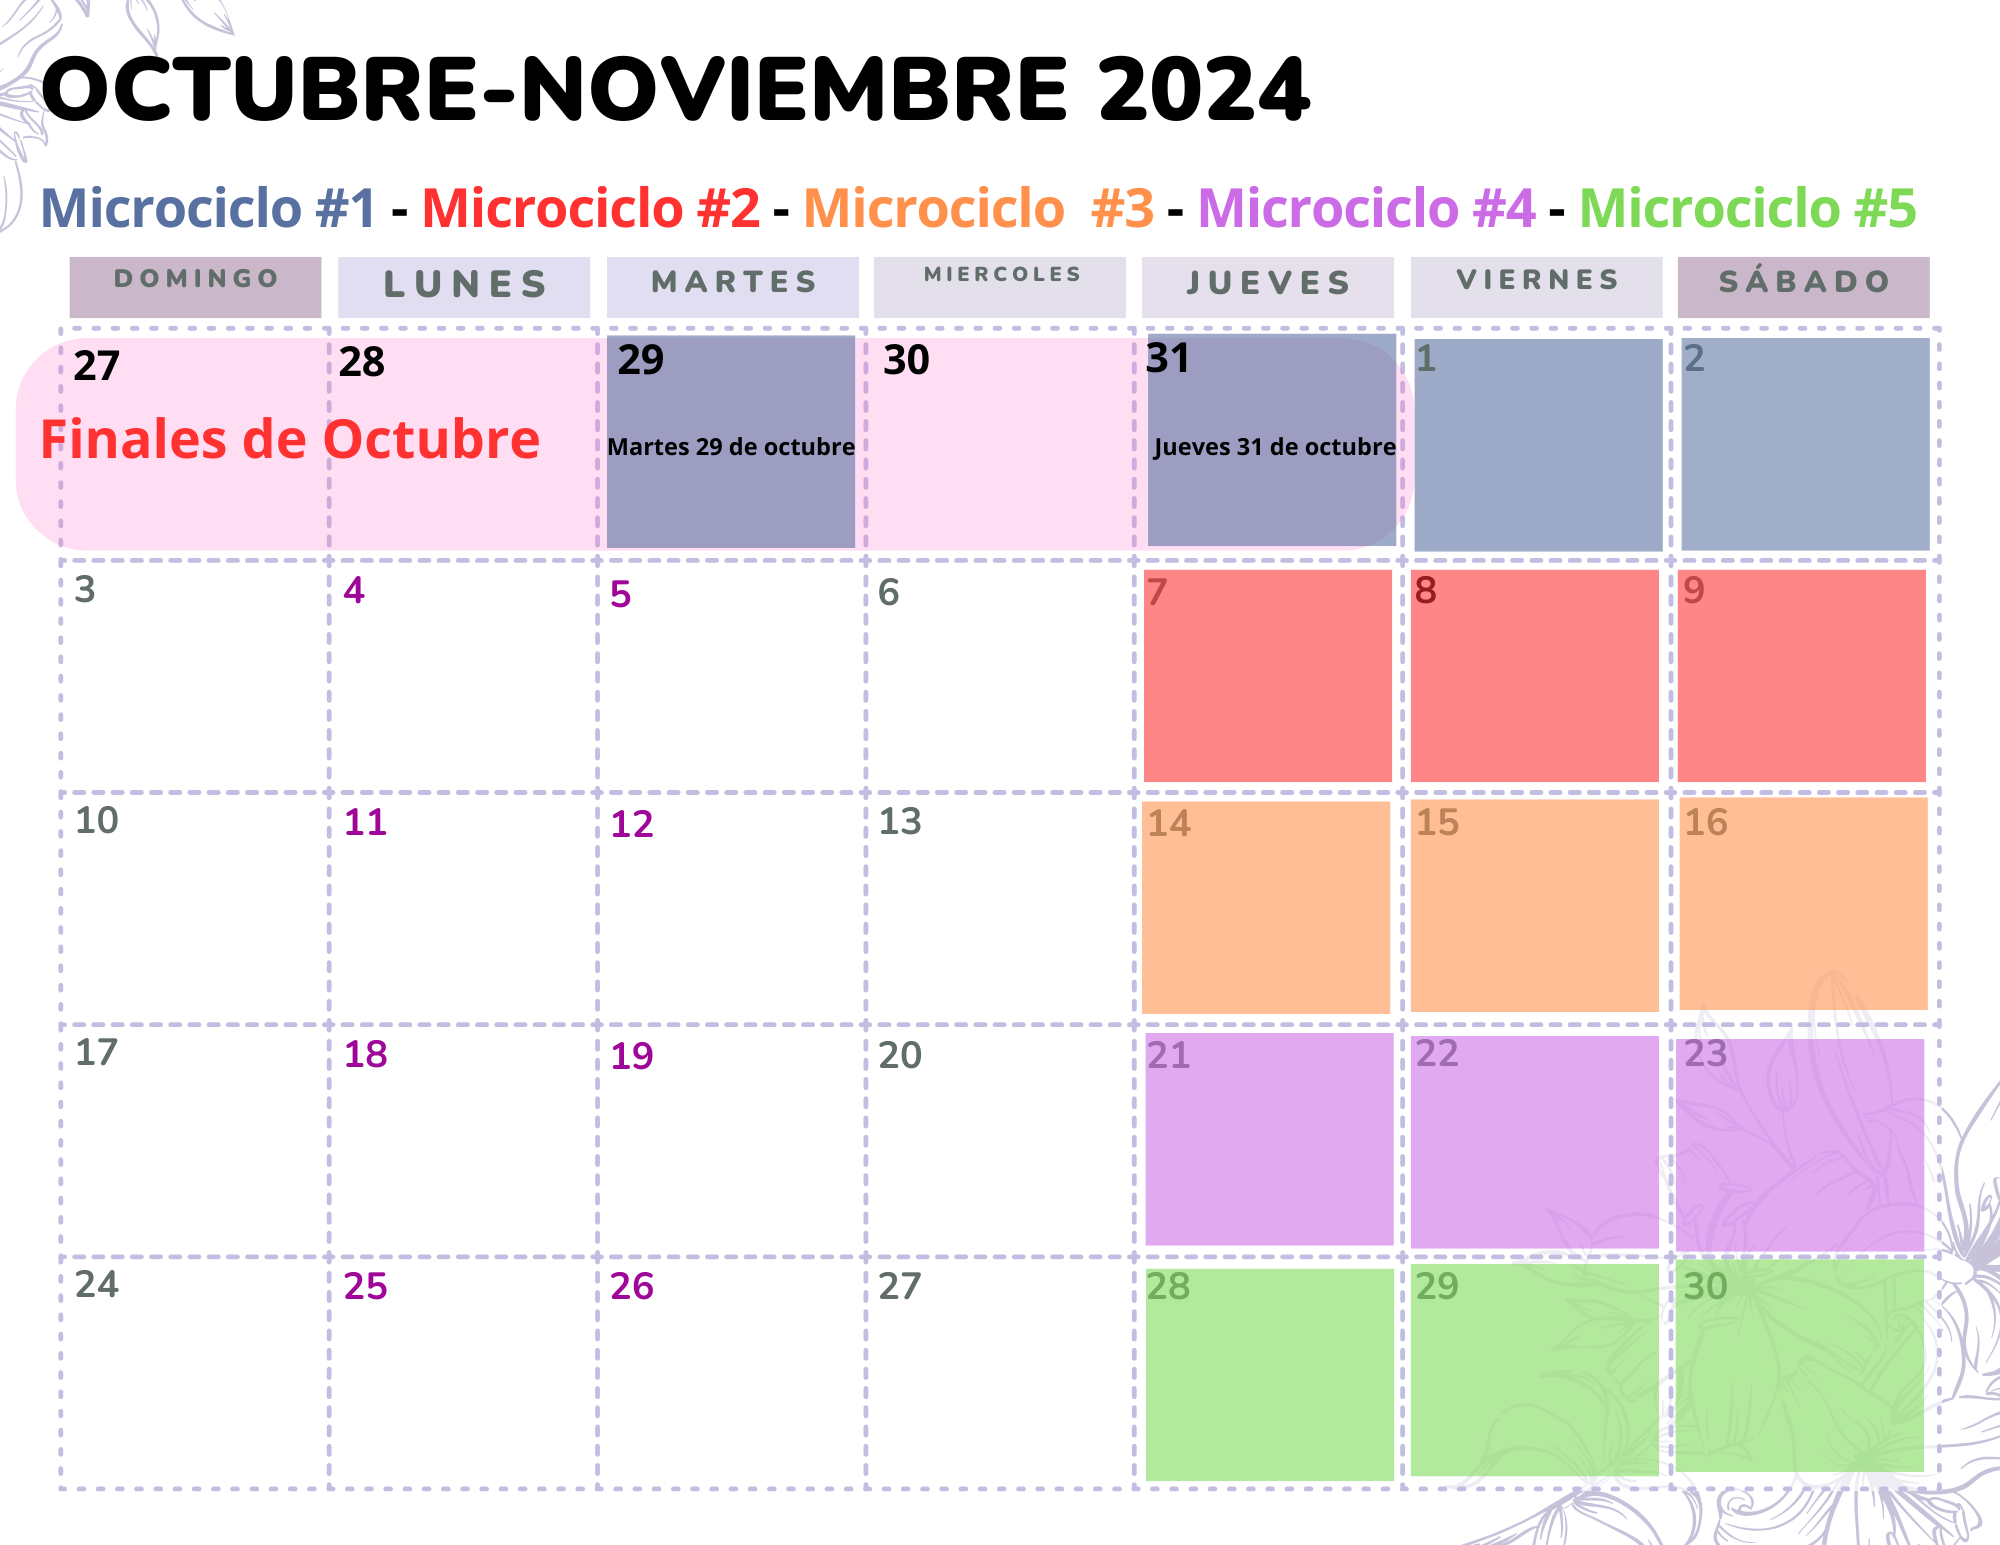
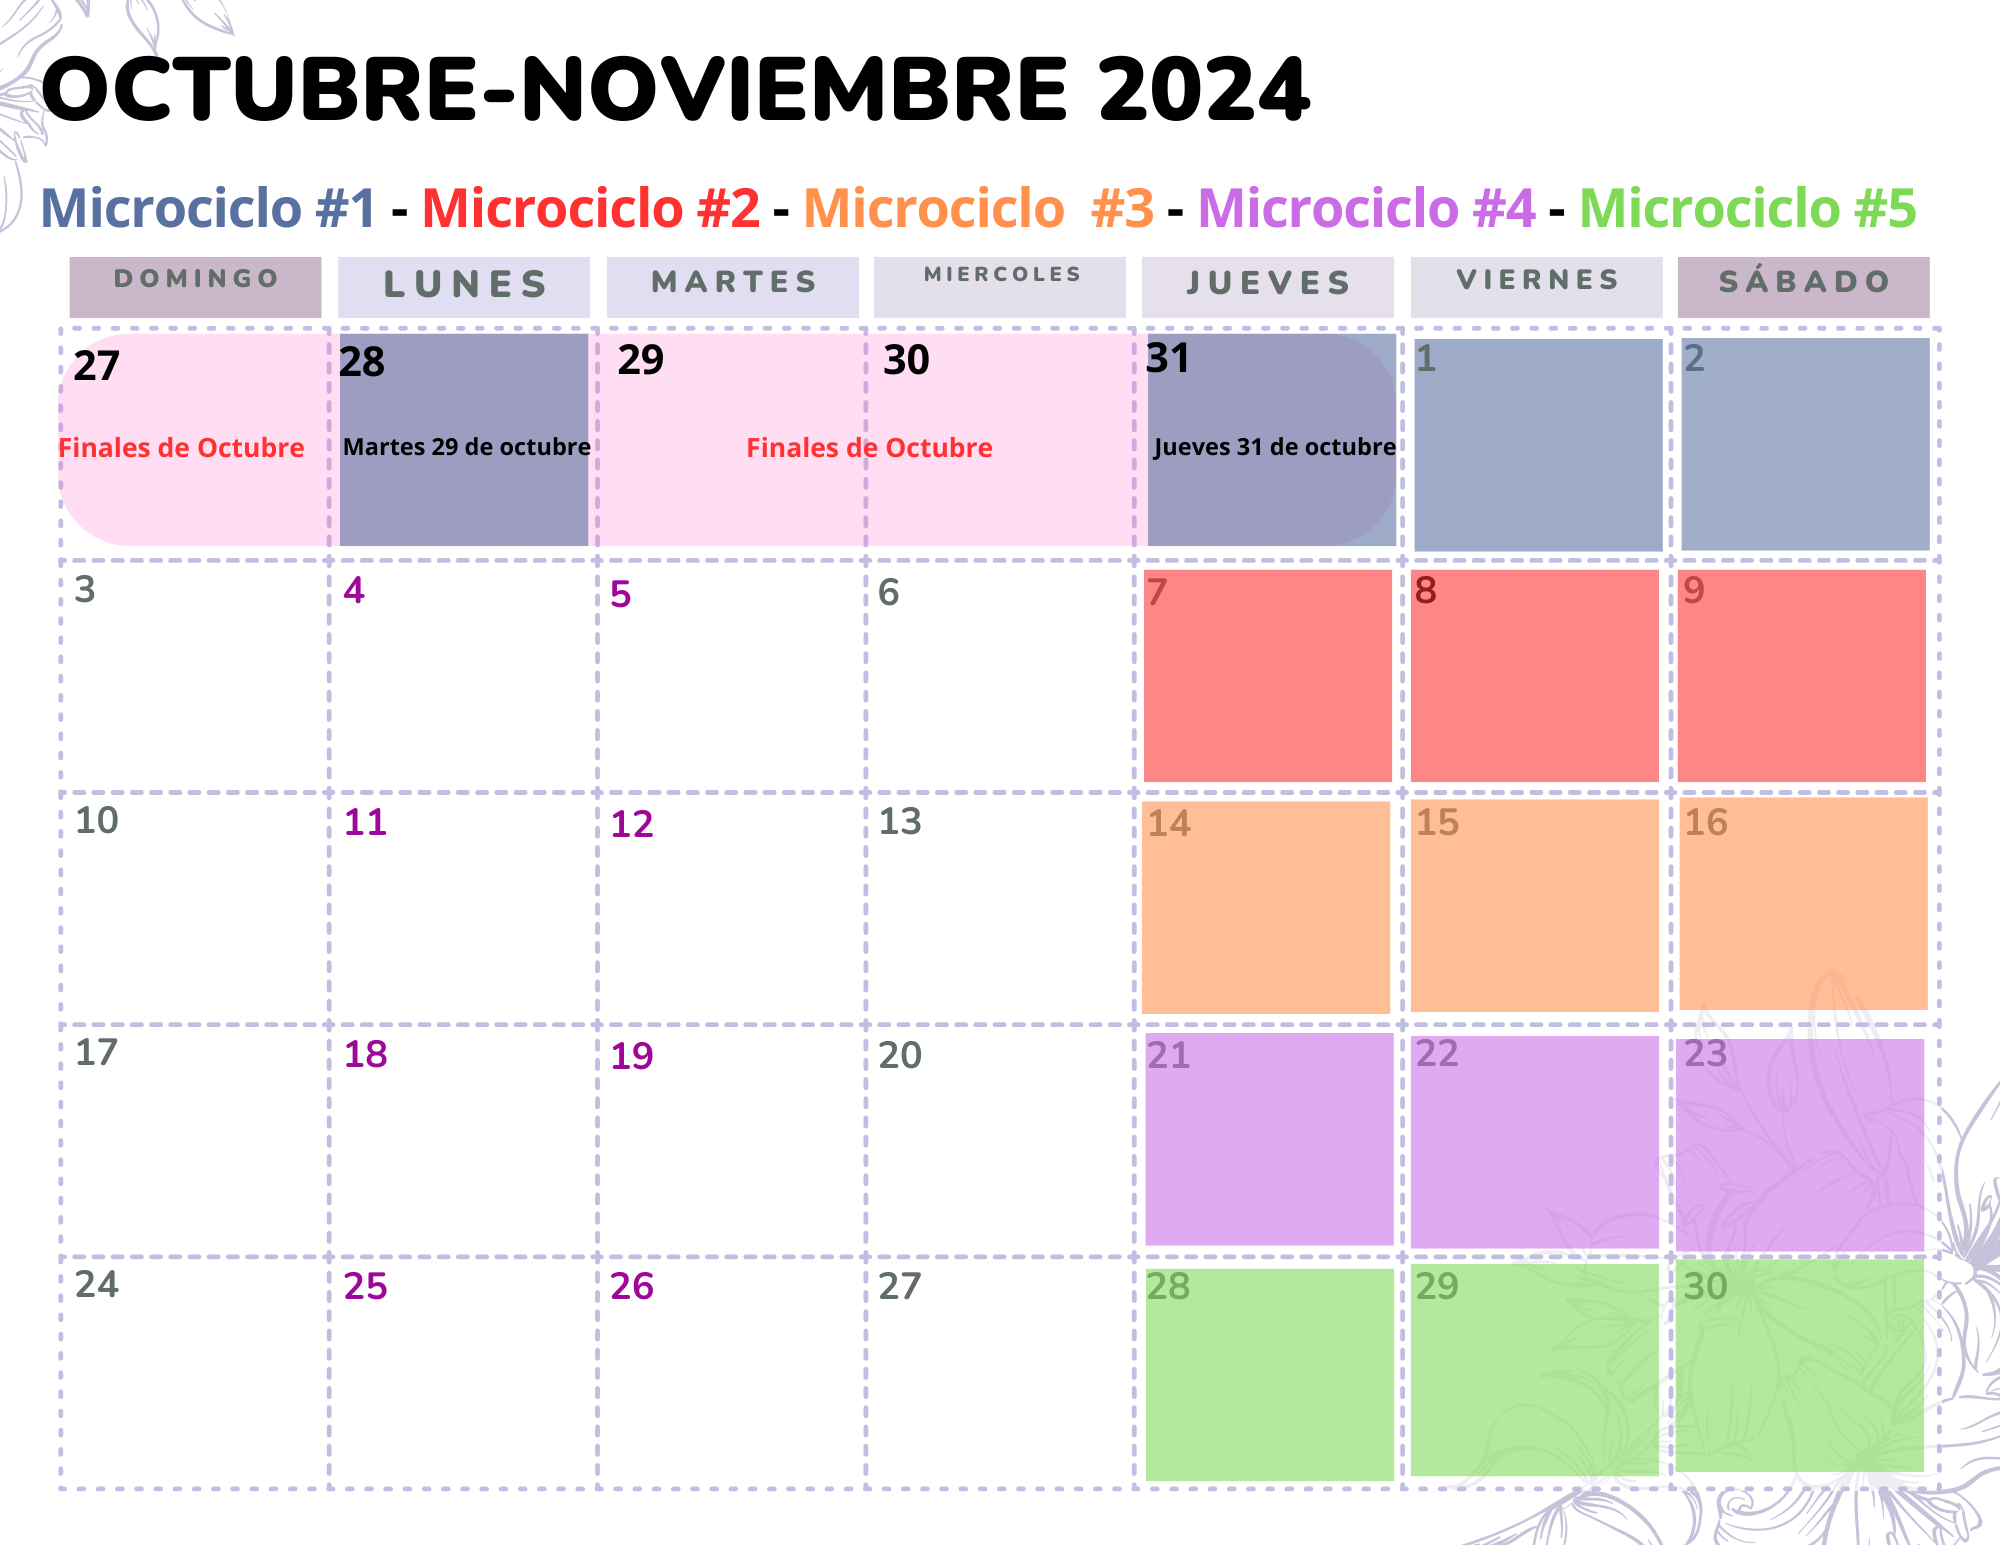
7th i think, we are trying to correct dates and calendar and add delete records

Changed region(s): [[0.0, 0.2175, 0.496, 0.3728], [0.682, 0.2485, 0.713, 0.3417], [0.031, 0.3417, 0.062, 0.3728]]

diff --git a/calenovemberchaverrapf.py b/calenovemberchaverrapf.py
@@ -25,6 +25,20 @@ def save_to_sqlite(nombre_padre, nombre_jugador, notas, microciclos):
         except Error as e:
             st.error(f"Error saving data: {e}")
 
+# Function to delete a record based on the parent's name
+def delete_record_by_name(nombre_padre):
+    conn = create_connection()
+    if conn:
+        try:
+            cursor = conn.cursor()
+            query = "DELETE FROM parents_data WHERE nombre_padre = ?"
+            cursor.execute(query, (nombre_padre,))
+            conn.commit()
+            conn.close()
+            st.success(f"Record for {nombre_padre} deleted successfully!")
+        except Error as e:
+            st.error(f"Error deleting data: {e}")
+
 # Function to display data from SQLite in admin view
 def visualize_microciclos(data):
     for parent in data:
@@ -69,6 +83,15 @@ def admin_access():
         if password == "chave4043":
             st.success("Access granted!")
             display_all_data()
+
+            # Add option to delete a record
+            st.subheader("Delete Record")
+            delete_padre = st.text_input("Enter the parent's name to delete:")
+            if st.button("Delete Record"):
+                if delete_padre:
+                    delete_record_by_name(delete_padre)
+                else:
+                    st.error("Please enter a parent's name to delete.")
         else:
             st.error("Incorrect password. Access denied.")
 
@@ -96,8 +119,8 @@ def informacion_padre_y_calendario():
     # Microciclo #1
     st.markdown("<h4 style='color: lightblue;'>Microciclo #1</h4>", unsafe_allow_html=True)
     microciclos['microciclo_1'] = {
-        "29 de octubre (martes)": st.checkbox("29 de octubre (martes)", key="microciclo_1_1"),
-        "30 de octubre (miércoles)": st.checkbox("30 de octubre (miércoles)", key="microciclo_1_2"),
+        "28 de octubre (lunes)": st.checkbox("28 de octubre (lunes)", key="microciclo_1_1"),
+        "31 de octubre (jueves)": st.checkbox("31 de octubre (jueves)", key="microciclo_1_2"),
         "1 de noviembre (viernes)": st.checkbox("1 de noviembre (viernes)", key="microciclo_1_3"),
         "2 de noviembre (sábado)": st.checkbox("2 de noviembre (sábado)", key="microciclo_1_4"),
     }
@@ -105,41 +128,33 @@ def informacion_padre_y_calendario():
     # Microciclo #2
     st.markdown("<h4 style='color: lightcoral;'>Microciclo #2</h4>", unsafe_allow_html=True)
     microciclos['microciclo_2'] = {
-        "4 de noviembre (lunes)": st.checkbox("4 de noviembre (lunes)", key="microciclo_2_1"),
-        "5 de noviembre (martes)": st.checkbox("5 de noviembre (martes)", key="microciclo_2_2"),
-        "7 de noviembre (jueves)": st.checkbox("7 de noviembre (jueves)", key="microciclo_2_3"),
-        "8 de noviembre (viernes)": st.checkbox("8 de noviembre (viernes)", key="microciclo_2_4"),
-        "9 de noviembre (sábado)": st.checkbox("9 de noviembre (sábado)", key="microciclo_2_5"),
+        "7 de noviembre (jueves)": st.checkbox("7 de noviembre (jueves)", key="microciclo_2_1"),
+        "8 de noviembre (viernes)": st.checkbox("8 de noviembre (viernes)", key="microciclo_2_2"),
+        "9 de noviembre (sábado)": st.checkbox("9 de noviembre (sábado)", key="microciclo_2_3"),
     }
 
     # Microciclo #3
     st.markdown("<h4 style='color: orange;'>Microciclo #3</h4>", unsafe_allow_html=True)
     microciclos['microciclo_3'] = {
-        "11 de noviembre (lunes)": st.checkbox("11 de noviembre (lunes)", key="microciclo_3_1"),
-        "12 de noviembre (martes)": st.checkbox("12 de noviembre (martes)", key="microciclo_3_2"),
-        "14 de noviembre (jueves)": st.checkbox("14 de noviembre (jueves)", key="microciclo_3_3"),
-        "15 de noviembre (viernes)": st.checkbox("15 de noviembre (viernes)", key="microciclo_3_4"),
-        "16 de noviembre (sábado)": st.checkbox("16 de noviembre (sábado)", key="microciclo_3_5"),
+        "14 de noviembre (jueves)": st.checkbox("14 de noviembre (jueves)", key="microciclo_3_1"),
+        "15 de noviembre (viernes)": st.checkbox("15 de noviembre (viernes)", key="microciclo_3_2"),
+        "16 de noviembre (sábado)": st.checkbox("16 de noviembre (sábado)", key="microciclo_3_3"),
     }
 
     # Microciclo #4
     st.markdown("<h4 style='color: purple;'>Microciclo #4</h4>", unsafe_allow_html=True)
     microciclos['microciclo_4'] = {
-        "18 de noviembre (lunes)": st.checkbox("18 de noviembre (lunes)", key="microciclo_4_1"),
-        "19 de noviembre (martes)": st.checkbox("19 de noviembre (martes)", key="microciclo_4_2"),
-        "21 de noviembre (jueves)": st.checkbox("21 de noviembre (jueves)", key="microciclo_4_3"),
-        "22 de noviembre (viernes)": st.checkbox("22 de noviembre (viernes)", key="microciclo_4_4"),
-        "23 de noviembre (sábado)": st.checkbox("23 de noviembre (sábado)", key="microciclo_4_5"),
+        "21 de noviembre (jueves)": st.checkbox("21 de noviembre (jueves)", key="microciclo_4_1"),
+        "22 de noviembre (viernes)": st.checkbox("22 de noviembre (viernes)", key="microciclo_4_2"),
+        "23 de noviembre (sábado)": st.checkbox("23 de noviembre (sábado)", key="microciclo_4_3"),
     }
 
     # Microciclo #5
     st.markdown("<h4 style='color: green;'>Microciclo #5</h4>", unsafe_allow_html=True)
     microciclos['microciclo_5'] = {
-        "25 de noviembre (lunes)": st.checkbox("25 de noviembre (lunes)", key="microciclo_5_1"),
-        "26 de noviembre (martes)": st.checkbox("26 de noviembre (martes)", key="microciclo_5_2"),
-        "28 de noviembre (jueves)": st.checkbox("28 de noviembre (jueves)", key="microciclo_5_3"),
-        "29 de noviembre (viernes)": st.checkbox("29 de noviembre (viernes)", key="microciclo_5_4"),
-        "30 de noviembre (sábado)": st.checkbox("30 de noviembre (sábado)", key="microciclo_5_5"),
+        "28 de noviembre (jueves)": st.checkbox("28 de noviembre (jueves)", key="microciclo_5_1"),
+        "29 de noviembre (viernes)": st.checkbox("29 de noviembre (viernes)", key="microciclo_5_2"),
+        "30 de noviembre (sábado)": st.checkbox("30 de noviembre (sábado)", key="microciclo_5_3"),
     }
 
     st.subheader("Notas o Mensajes para el Entrenador")
